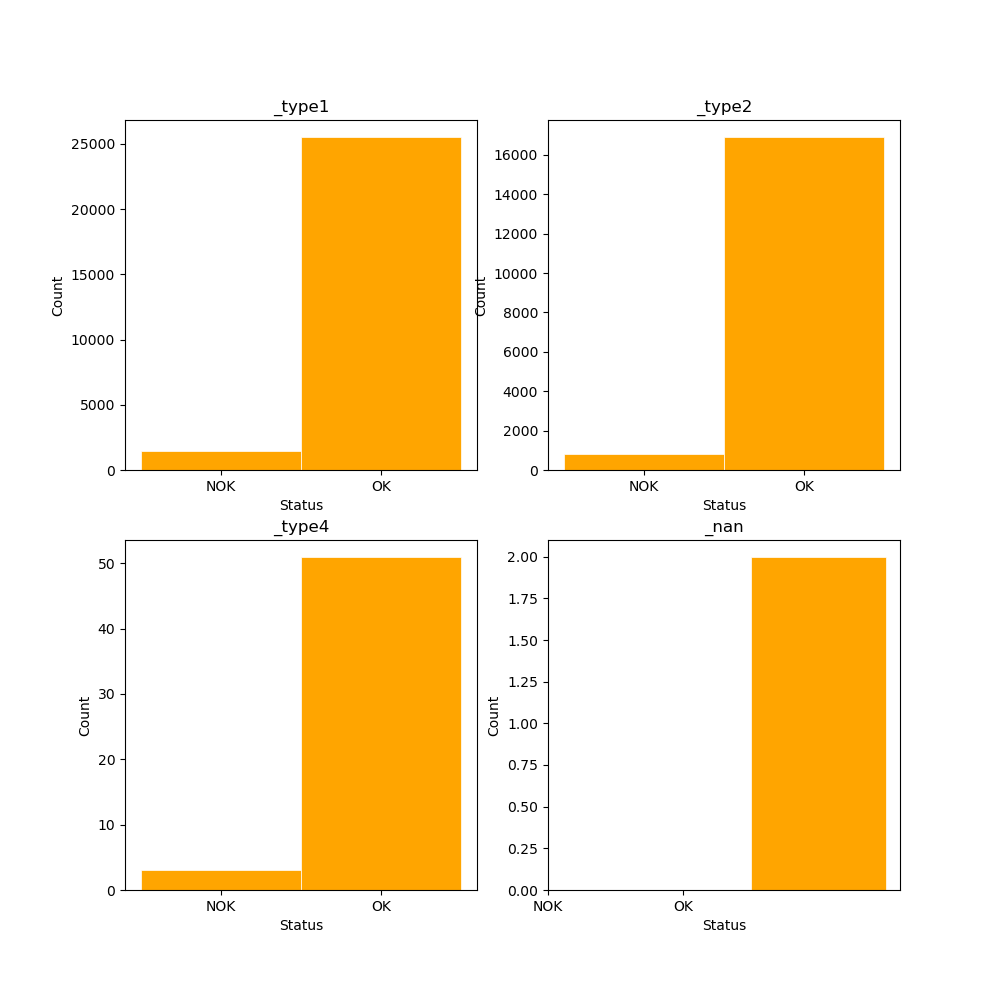
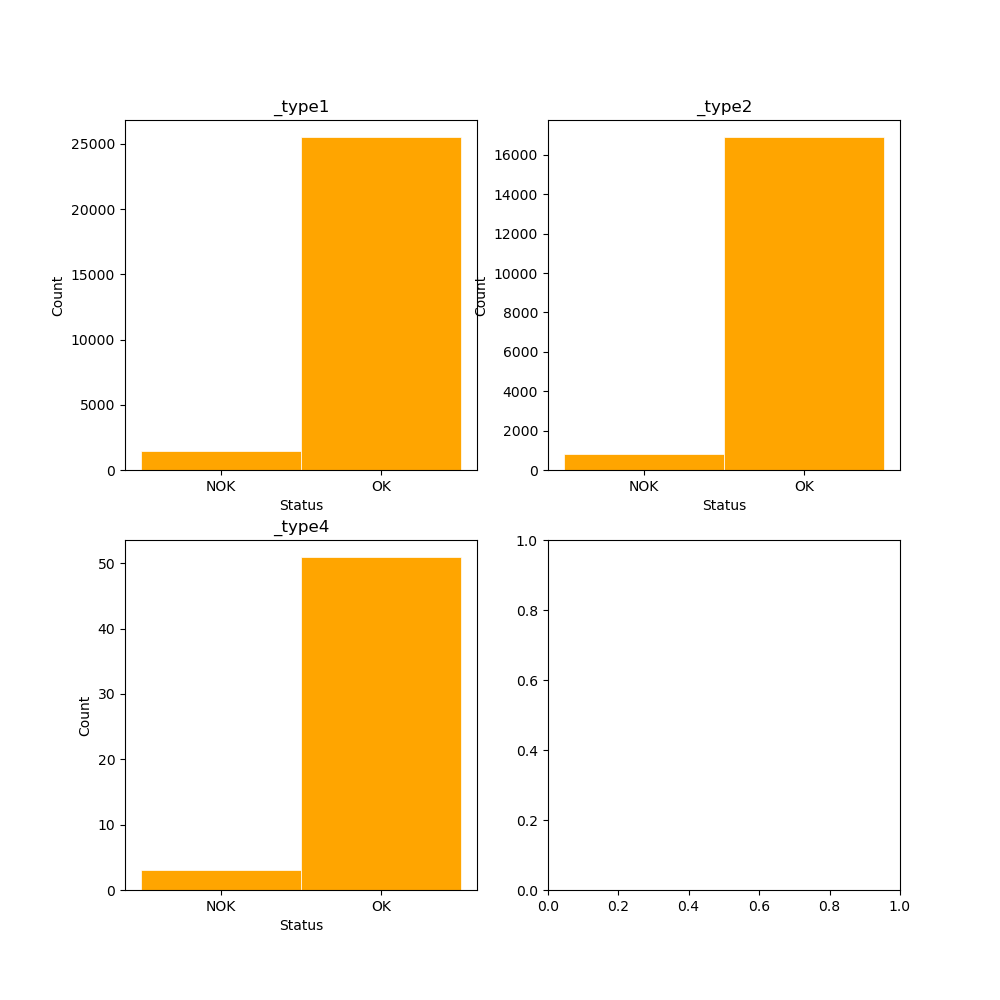
mapping types to numbers added

diff --git a/cleaner.py b/cleaner.py
@@ -37,10 +37,8 @@ for col_name, typ in dtypes.items():
         
         df[col_name] = df[col_name].fillna(replacement_value)
 #we check the sizing and contents of a column
-print(f'The cleaned frame: {df.shape}')
+print(f'The frame wthout nulls: {df.shape}')
 print(df.info())
-print(df.describe())
-
 #NORMALIZATION-----------------------------------------------------------------
 #function for normalizing each column to the range [0, 1]
 def norm(col):
@@ -53,8 +51,10 @@ for col_name, typ in dtypes.items():
 #MAPPING
 mapping = {'OK': 1, 'NOK': 0}
 df['status']=df['status'].map(mapping)
+mapping = {'type1': 1, 'type2': 2, 'type4':3}
+df['physical_part_type']=df['physical_part_type'].map(mapping)
 
-df.to_csv("cleaned.csv")
+df.to_csv("prefilter.csv")
 #VARIANCE FILTERING
 #our graph showed us a lot of columns with vary low variance. We dont need those
 low_variance_threshold = 0.01
@@ -68,18 +68,22 @@ df=df.drop(columns=columns_to_remove)
 df = df.dropna(axis=1, how='all') 
 print(f'The variance filtered frame: {df.shape}')
 df.to_csv("var.csv")
+#we want to discard NAN types and map the part types
+df = df.dropna(subset=['physical_part_type'])
+print("the data is clear. Here is the info before separation:")
+df.info()
+df.to_csv('clean.csv')
 #SEPARATION
 '''
-We want to separate the type 1 from type 2,4 and nan
+We want to separate the type 1 from type 2,4
 '''
 #we filter the data based on part type
-df_type1 = df[df['physical_part_type'] == 'type1'].drop(columns=['physical_part_type'])
-df_type2 = df[df['physical_part_type'] == 'type2'].drop(columns=['physical_part_type'])
-df_type4 = df[df['physical_part_type'] == 'type4'].drop(columns=['physical_part_type'])
-df_nan = df[df['physical_part_type'].isna()].drop(columns=['physical_part_type'])
-frames=[df_type1,df_type2,df_type4,df_nan]
-labels=['type 1', 'type 2', 'type 4', 'Nan']
-for i in range(4):
+df_type1 = df[df['physical_part_type'] == 1].drop(columns=['physical_part_type'])
+df_type2 = df[df['physical_part_type'] == 2].drop(columns=['physical_part_type'])
+df_type4 = df[df['physical_part_type'] == 3].drop(columns=['physical_part_type'])
+frames=[df_type1,df_type2,df_type4]
+labels=['type 1', 'type 2', 'type 4']
+for i in range(3):
     label=labels[i]
     frame=frames[i]
     print(f'{label} is shape {frame.shape}')
@@ -87,4 +91,3 @@ for i in range(4):
 df_type1.to_csv("type1.csv")
 df_type2.to_csv("type2.csv")
 df_type4.to_csv("type4.csv")
-df_nan.to_csv("type_nan.csv")

diff --git a/plotter.py b/plotter.py
@@ -32,10 +32,11 @@ def plot_OK(df, ax):
     ax.set_ylabel('Count')
     ax.set_title('OK vs NOK')
 #we have labels for the files and graphs
-files=['cleaned.csv','var.csv',"type1.csv","type2.csv","type4.csv","type_nan.csv"]
-labels=["","_var", "_type1","_type2","_type4","_nan"]
+files=['prefilter.csv','var.csv',"clean.csv","type1.csv","type2.csv","type4.csv"]
+labels=["","_var", "_clean","_type1","_type2","_type4"]
+first=3
 #we plot the states before the split
-for i in range(2):
+for i in range(3):
     file=files[i]
     label=labels[i]
     df = pd.read_csv(file)
@@ -44,10 +45,10 @@ for i in range(2):
     plot_OK(df, ax)
     fig.savefig('./images/ok'+label+'.png')
 #we create graphs for each of the split groups
-fig, axes = plt.subplots(2, 2, figsize=(10, 10))  # Create a 5x5 grid of subplots
+fig, axes = plt.subplots(2, 2, figsize=(10, 10))  # Create a 2x2 grid of subplots
 axes = axes.flatten()  # Flatten to iterate easily
-for i in range(4):
-    indx=i+2
+for i in range(3):
+    indx=i+first
     file=files[indx]
     label=labels[indx]
     df = pd.read_csv(file)

diff --git a/nn.py b/nn.py
@@ -18,7 +18,7 @@ device = torch.device('cuda' if torch.cuda.is_available() else 'cpu')
 
 #LOAD DATA:
 #Load the CSV file
-dataframe = pd.read_csv("type1.csv")
+dataframe = pd.read_csv("clean.csv")
 data_y=dataframe['status']
 data_x=dataframe.iloc[:,1:]
 input_size=data_x.shape[1]

diff --git a/cleaning.md b/cleaning.md
@@ -22,7 +22,7 @@ After plotting data from different sensors it was clear that a lot of it is heav
 variance. This data will not be as useful for the model and was dropped.
 
 Also, we dropped the columns that were all null in order to avoid NaN errors.
-![initial sensor data](./images/censors_var.png)
+![initial sensor data](./images/censors_clean.png)
 Afterwards we could see more diverse graphs, where data is less concentrated. (The picture shows the first 25 columns of data plotted as histograms)
 ## Separation:
 We separate the data according to the part type and drop the column with correspinding data as we no longer need it.
